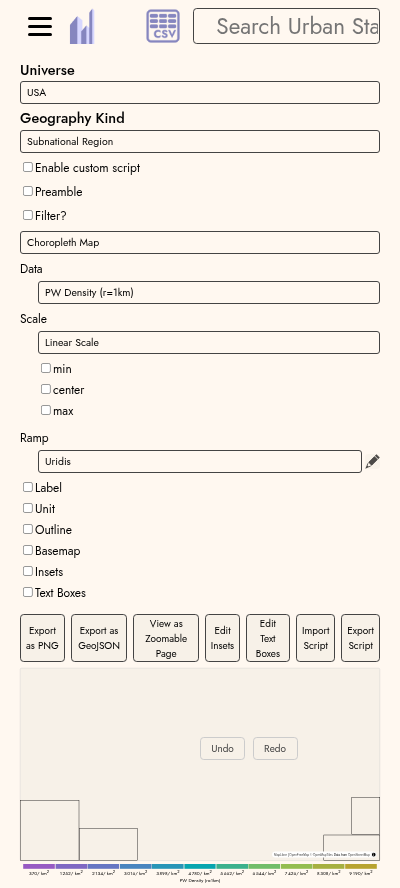
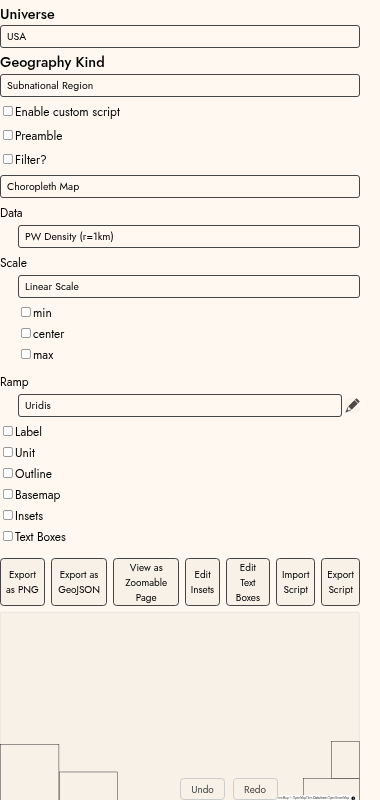
Fix layout issues on mobile caused by undo/redo buttons (#1587)
Not sure how to test this in e2e…

diff --git a/react/src/mapper/settings/EditMapperPanel.tsx b/react/src/mapper/settings/EditMapperPanel.tsx
@@ -199,6 +199,8 @@ function USSMapEditor({ mapSettings, setMapSettings, counts, typeEnvironment, se
     )
 }
 
+export const splitLayoutContext = React.createContext(false)
+
 function MaybeSplitLayout({ left, right, error }: { left: ReactNode, right: ReactNode, error: boolean }): ReactNode {
     const mobileLayout = useMobileLayout()
 
@@ -256,62 +258,64 @@ function SplitLayout({ left, right, error }: { left: ReactNode, right: ReactNode
     const dividerWidth = '1em'
 
     return (
-        <div style={{ display: 'flex', height, position: 'relative' }} ref={splitRef}>
-            {left && (
-                <>
-                    <div style={{ width: leftPct, minWidth: minLeftWidth, overflowY: 'scroll', backgroundColor: mixWithBackground(colors.hueColors.red, error ? 0.8 : 1, colors.slightlyDifferentBackground), padding: '1em', borderRadius: '5px' }}>
-                        {left}
-                    </div>
-                    <div
-                        ref={dividerRef}
-                        style={{ width: dividerWidth, position: 'relative' }}
-                        onPointerDown={(e) => {
-                            if (drag === undefined) {
-                                const div = e.target as HTMLDivElement
-                                setDrag({
-                                    pointerId: e.pointerId,
-                                    startOffsetX: e.nativeEvent.offsetX + div.offsetLeft,
-                                    startProp: Math.max(minLeftColProp(), leftColProp),
-                                })
-                                div.setPointerCapture(e.pointerId)
-                            }
-                        }}
-                        onPointerMove={(e) => {
-                            if (e.pointerId === drag?.pointerId) {
-                                const div = e.target as HTMLDivElement
-                                const propChange = (div.offsetLeft + e.nativeEvent.offsetX - drag.startOffsetX) / splitRef.current!.offsetWidth
-                                setLeftColProp(Math.max(minLeftColProp(), Math.min(drag.startProp + propChange, maxLeftColProp)))
-                            }
-                        }}
-                        onPointerCancel={(e) => {
-                            if (drag?.pointerId === e.pointerId) {
-                                setDrag(undefined)
-                            }
-                        }}
-                        onPointerUp={(e) => {
-                            if (drag?.pointerId === e.pointerId) {
-                                setDrag(undefined)
-                            }
-                        }}
-                    >
-                        <div style={{
-                            backgroundColor: colors.borderNonShadow,
-                            borderRadius: '5px',
-                            position: 'absolute',
-                            width: '5px',
-                            left: 'calc(50% - 2px)',
-                            height: '50%',
-                            top: '25%',
-                            pointerEvents: 'none',
-                        }}
-                        />
-                    </div>
-                </>
-            )}
-            <div style={{ width: `calc(100% - max(${minLeftWidth}px, ${leftPct}) - ${dividerWidth})`, display: 'flex', flexDirection: 'column', justifyContent: 'center' }}>
-                {right}
+        <splitLayoutContext.Provider value={true}>
+            <div style={{ display: 'flex', height, position: 'relative' }} ref={splitRef}>
+                {left && (
+                    <>
+                        <div style={{ width: leftPct, minWidth: minLeftWidth, overflowY: 'scroll', backgroundColor: mixWithBackground(colors.hueColors.red, error ? 0.8 : 1, colors.slightlyDifferentBackground), padding: '1em', borderRadius: '5px' }}>
+                            {left}
+                        </div>
+                        <div
+                            ref={dividerRef}
+                            style={{ width: dividerWidth, position: 'relative' }}
+                            onPointerDown={(e) => {
+                                if (drag === undefined) {
+                                    const div = e.target as HTMLDivElement
+                                    setDrag({
+                                        pointerId: e.pointerId,
+                                        startOffsetX: e.nativeEvent.offsetX + div.offsetLeft,
+                                        startProp: Math.max(minLeftColProp(), leftColProp),
+                                    })
+                                    div.setPointerCapture(e.pointerId)
+                                }
+                            }}
+                            onPointerMove={(e) => {
+                                if (e.pointerId === drag?.pointerId) {
+                                    const div = e.target as HTMLDivElement
+                                    const propChange = (div.offsetLeft + e.nativeEvent.offsetX - drag.startOffsetX) / splitRef.current!.offsetWidth
+                                    setLeftColProp(Math.max(minLeftColProp(), Math.min(drag.startProp + propChange, maxLeftColProp)))
+                                }
+                            }}
+                            onPointerCancel={(e) => {
+                                if (drag?.pointerId === e.pointerId) {
+                                    setDrag(undefined)
+                                }
+                            }}
+                            onPointerUp={(e) => {
+                                if (drag?.pointerId === e.pointerId) {
+                                    setDrag(undefined)
+                                }
+                            }}
+                        >
+                            <div style={{
+                                backgroundColor: colors.borderNonShadow,
+                                borderRadius: '5px',
+                                position: 'absolute',
+                                width: '5px',
+                                left: 'calc(50% - 2px)',
+                                height: '50%',
+                                top: '25%',
+                                pointerEvents: 'none',
+                            }}
+                            />
+                        </div>
+                    </>
+                )}
+                <div style={{ width: `calc(100% - max(${minLeftWidth}px, ${leftPct}) - ${dividerWidth})`, display: 'flex', flexDirection: 'column', justifyContent: 'center' }}>
+                    {right}
+                </div>
             </div>
-        </div>
+        </splitLayoutContext.Provider>
     )
 }
 

diff --git a/react/src/mapper/map-generator.tsx b/react/src/mapper/map-generator.tsx
@@ -1,4 +1,4 @@
-import React, { ReactNode, useEffect, useRef, useState } from 'react'
+import React, { ReactNode, useContext, useEffect, useRef, useState } from 'react'
 import { MapRef } from 'react-map-gl/maplibre'
 
 import { CSVExportData, generateMapperCSVData } from '../components/csv-export'
@@ -33,6 +33,7 @@ import { useOrderedResolve } from '../utils/useOrderedResolve'
 import { Colorbar, RampToDisplay } from './components/Colorbar'
 import { InsetMap } from './components/InsetMap'
 import { AddTextBox, MapTextBoxComponent } from './components/MapTextBox'
+import { splitLayoutContext } from './settings/EditMapperPanel'
 import { computeUSS, MapSettings } from './settings/utils'
 
 const mapUpdateInterval = 500
@@ -425,7 +426,7 @@ async function loadMapResult({ mapResultMain: { opaqueType, value }, universe, g
 const canonicalWidth = 1200
 
 function TransformConstantWidth({ children }: { children: ReactNode }): ReactNode {
-    const [layout, setLayout] = useState({ scale: 1, top: 0, left: 0 })
+    const [layout, setLayout] = useState({ scale: 1, top: 0, left: 0, selfDeterminedHeight: 0 })
     const ref = useRef<HTMLDivElement>(null)
     const childRef = useRef<HTMLDivElement>(null)
 
@@ -442,6 +443,7 @@ function TransformConstantWidth({ children }: { children: ReactNode }): ReactNod
                 scale,
                 top: Math.max(0, (ref.current.offsetHeight - childRef.current.offsetHeight * scale) / 2),
                 left: Math.max(0, (ref.current.offsetWidth - childRef.current.offsetWidth * scale) / 2),
+                selfDeterminedHeight: childRef.current.offsetHeight * scale,
             })
         }
         updateScale()
@@ -455,7 +457,7 @@ function TransformConstantWidth({ children }: { children: ReactNode }): ReactNod
     }, [])
 
     return (
-        <div ref={ref} style={{ position: 'absolute', inset: 0 }}>
+        <div ref={ref} style={{ ...(useContext(splitLayoutContext) ? { position: 'absolute' } : { height: layout.selfDeterminedHeight }), inset: 0 }}>
             <div
                 ref={childRef}
                 style={{

diff --git a/react/src/urban-stats-script/editor-utils.tsx b/react/src/urban-stats-script/editor-utils.tsx
@@ -511,11 +511,13 @@ function UndoRedoControls({ doUndo, doRedo, canUndo, canRedo }: { doUndo: () => 
 
         const outerBounds = outer.current.getBoundingClientRect()
 
-        inner.current.style.top = `${(window.visualViewport?.height ?? window.innerHeight) - outerBounds.top - height}px`
-        inner.current.style.left = `${(window.visualViewport?.width ?? window.innerWidth) - outerBounds.left - width}px`
+        const offsetParent = outer.current.offsetParent as HTMLElement
+
+        inner.current.style.top = `${Math.min((window.visualViewport?.height ?? window.innerHeight) - outerBounds.top, (offsetParent.offsetHeight - outer.current.offsetTop)) - height}px`
+        inner.current.style.left = `${Math.min((window.visualViewport?.width ?? window.innerWidth) - outerBounds.left, (offsetParent.offsetWidth - outer.current.offsetLeft)) - width}px`
     }, [])
 
-    useEffect(positionInner)
+    useEffect(positionInner, [positionInner])
 
     useEffect(() => {
         window.addEventListener('scroll', positionInner)
@@ -534,7 +536,7 @@ function UndoRedoControls({ doUndo, doRedo, canUndo, canRedo }: { doUndo: () => 
         return null
     }
 
-    const buttonStyle: CSSProperties = { flex: 1, touchAction: 'manipulation', zIndex: 100 }
+    const buttonStyle: CSSProperties = { flex: 1, touchAction: 'manipulation', zIndex: 10000 }
 
     return (
         <div ref={outer} style={{ position: 'absolute' }}>

diff --git a/react/test/mapper-ux.test.ts b/react/test/mapper-ux.test.ts
@@ -401,5 +401,5 @@ urbanstatsFixture('mapper default', `${target}/mapper.html`)
 
 test('mobile appearance', async (t) => {
     await t.resizeWindow(400, 800)
-    await screencap(t)
+    await screencap(t, { selector: Selector('.content_panel_mobile') })
 })
